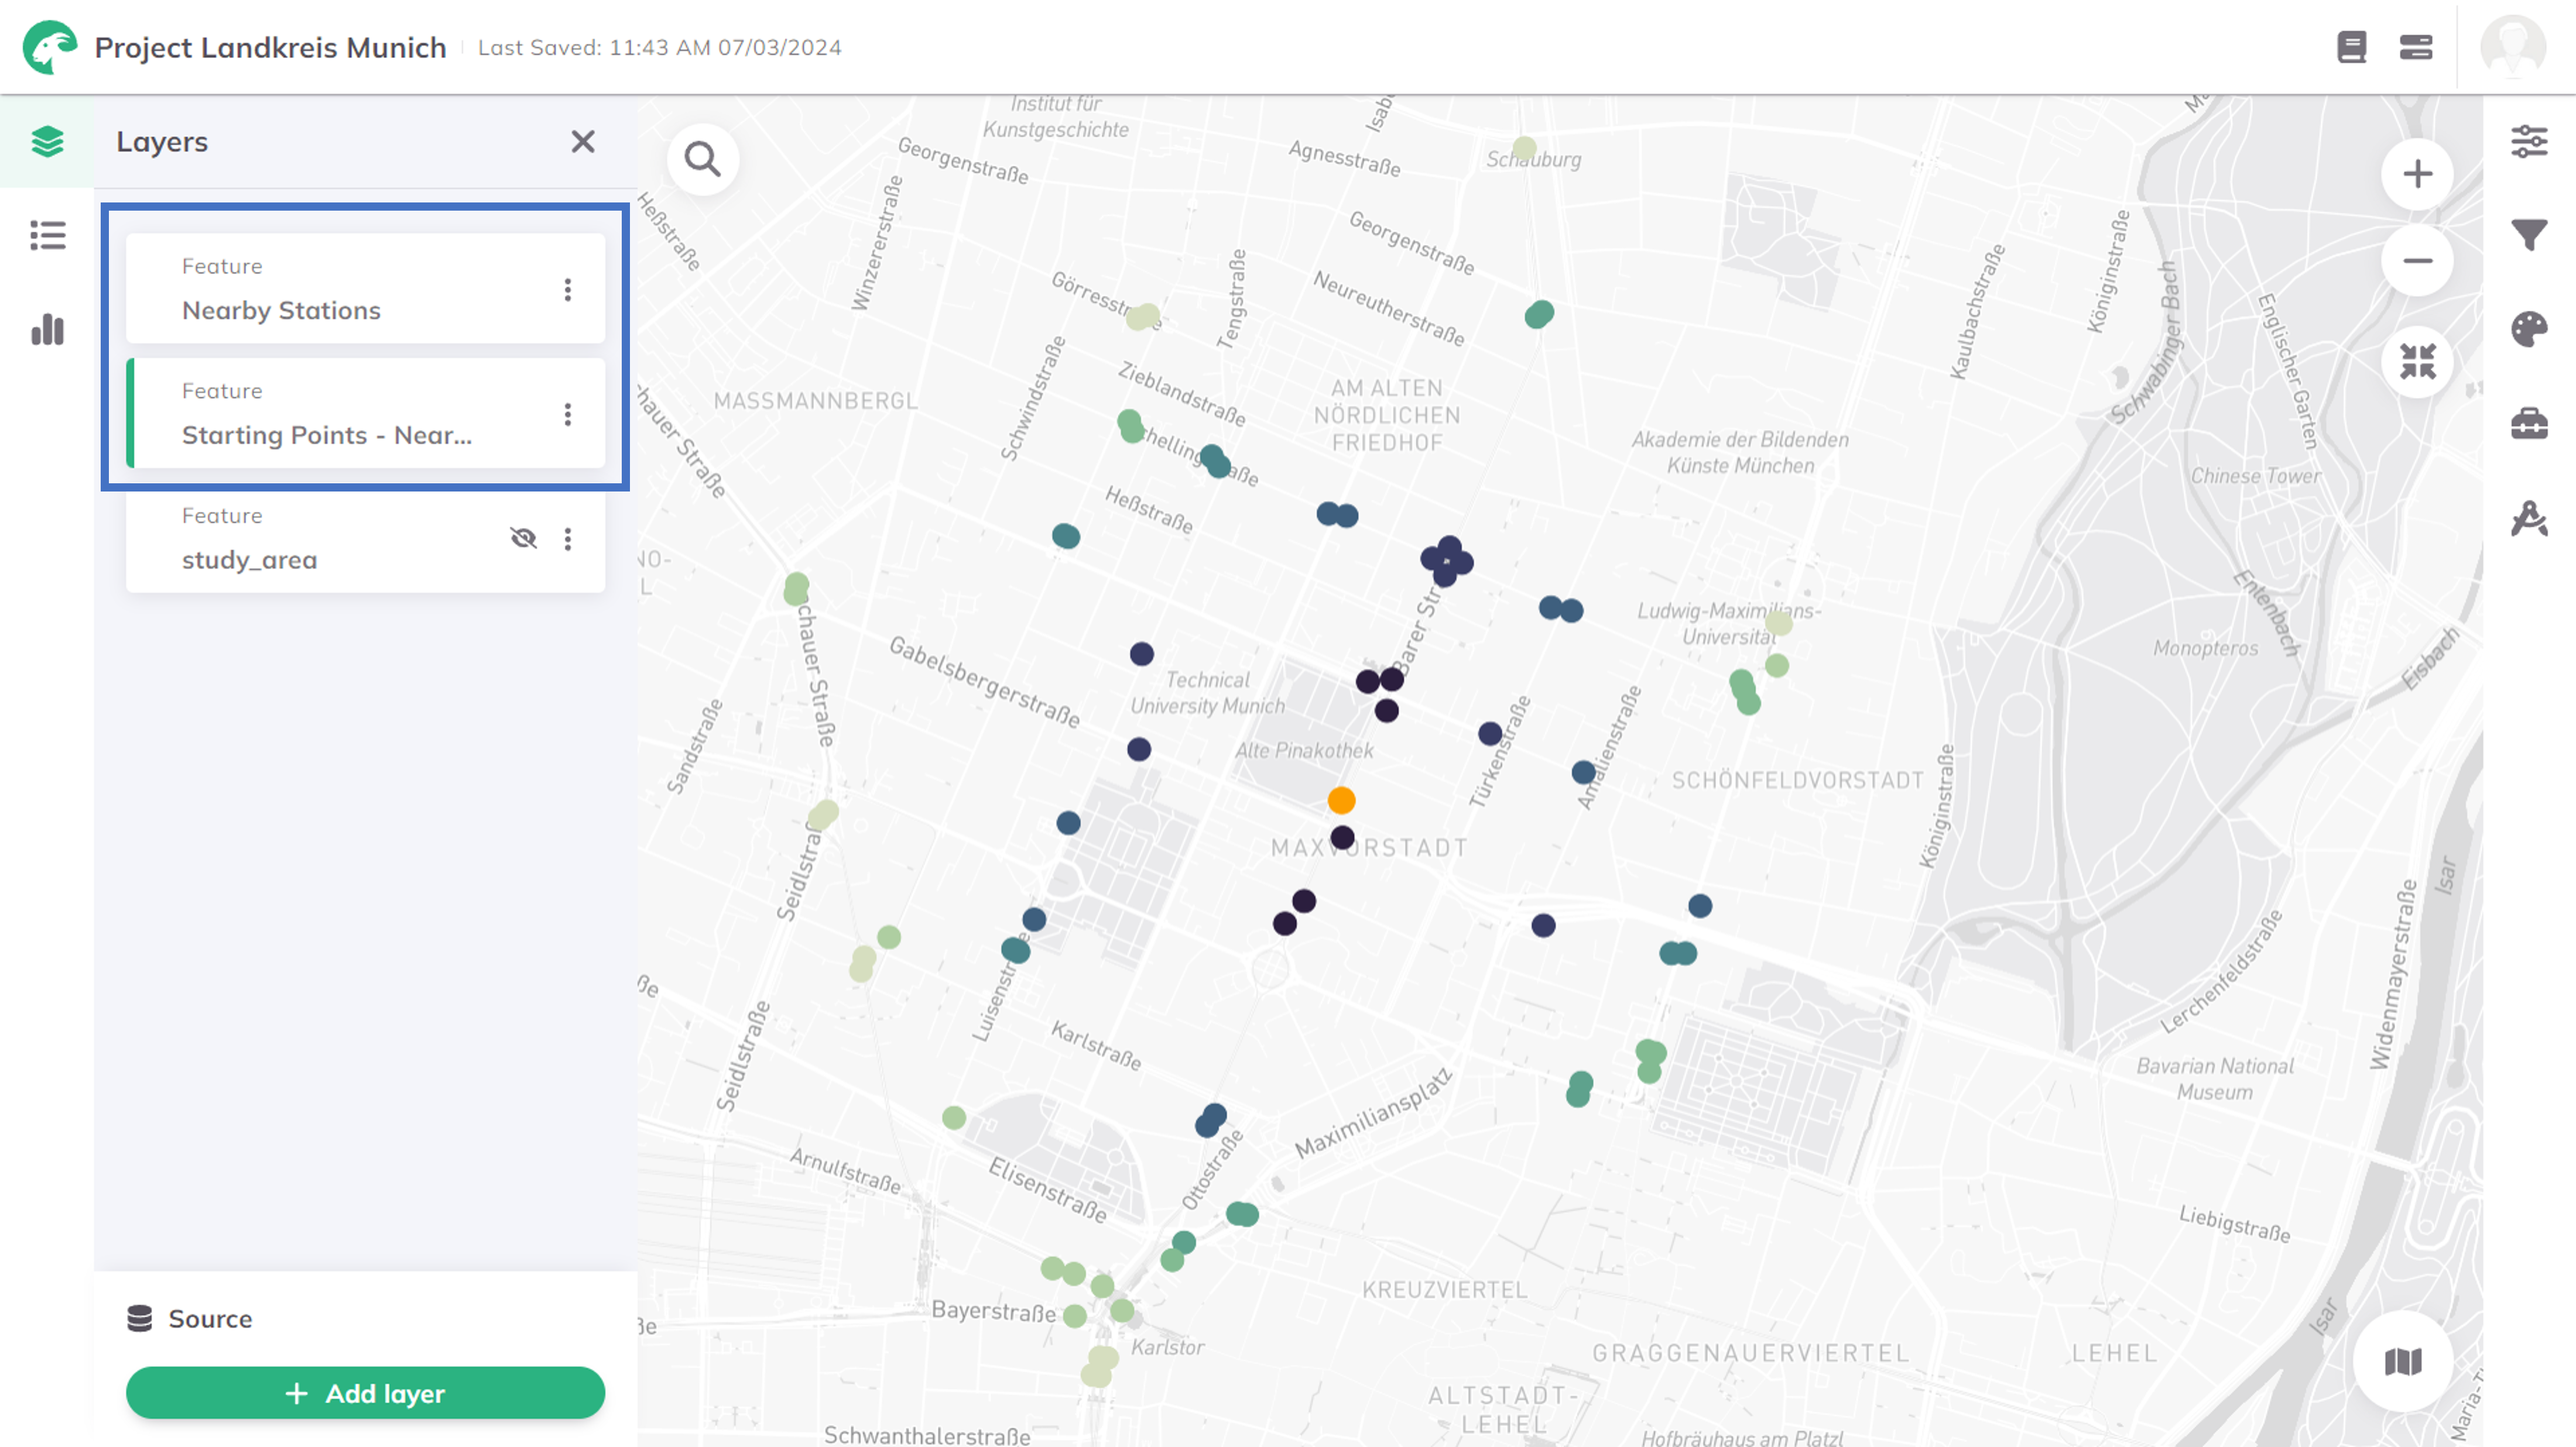
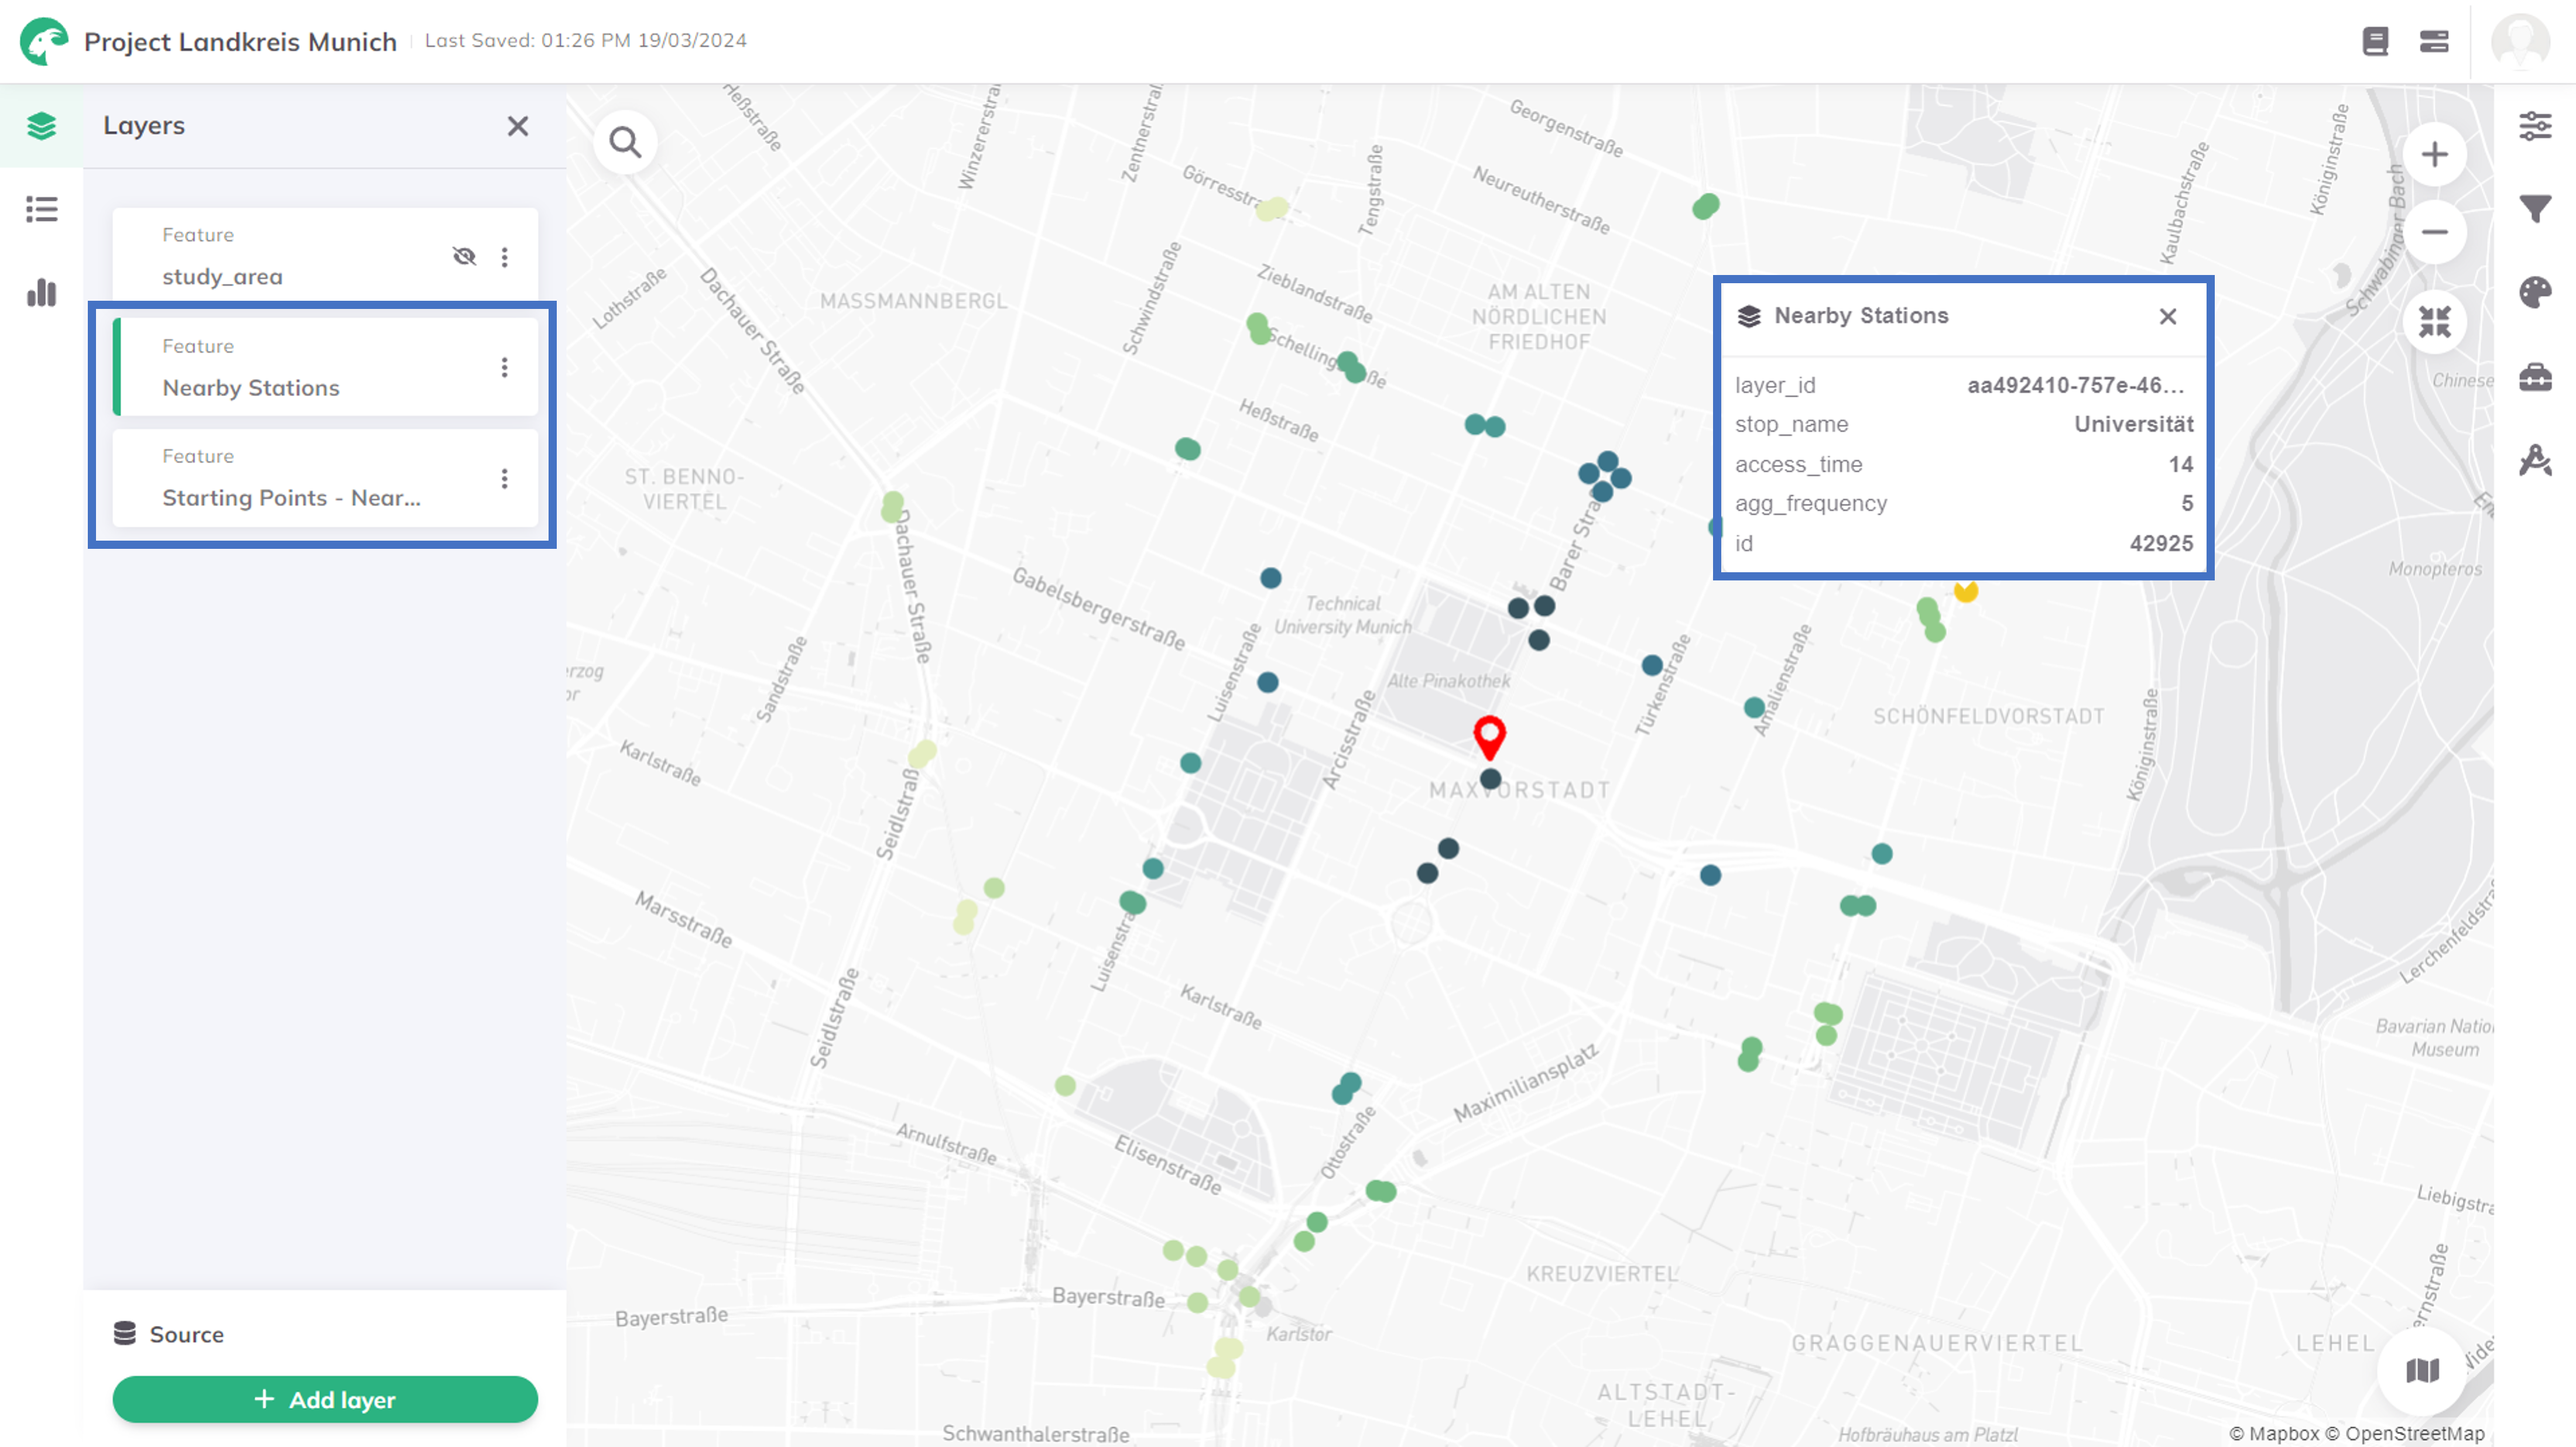
nearby stations update

diff --git a/docs/toolbox/accessibility_indicators/nearby_stations.md b/docs/toolbox/accessibility_indicators/nearby_stations.md
@@ -63,7 +63,7 @@ In case you need to perform analysis beyond this geofence, fell free to contact 
 
 <div class="step">
   <div class="step-number">5</div>
-  <div class="content">Pick which <code>Public transport modes</code> shall be considered for the nearby stations.</div>
+  <div class="content">Set <code>Station Configuration</code> to pick which <code>Public transport modes</code> shall be considered for the nearby stations.</div>
 </div>
 
 <div class="step">
@@ -76,7 +76,7 @@ In case you need to perform analysis beyond this geofence, fell free to contact 
 
 <div class="step">
   <div class="step-number">7</div>
-  <div class="content">Select under the <code>Starting point method</code> how you like to define the starting point(s) for the trips. You can either <b>Select on map</b> or <b>Select from layer</b>.</div>
+  <div class="content">From the <code>Starting Points</code> menu, select <code>Starting point method</code> to define how you like to define the starting point(s) for the trip(s). You can either <b>Select on map</b> or <b>Select from layer</b>.</div>
 </div>
 
 <Tabs>
@@ -117,11 +117,16 @@ Depending on the number of the selected starting points, the calculation might t
 
 <div class="step">
   <div class="step-number">10</div>
-  <div class="content">As soon as the calculation process is finished, the resulting layers will be added to the map. The results consist of one layer called <b>"Nearby Stations"</b>, showing the Nearby PT Stations, and one layer called <b>"Starting Points - Nearby Stations"</b> which provides all starting points that were used for the calculation of this indicator. </div>
+  <div class="content">As soon as the calculation process is finished, the resulting layers will be added to the map. The results consist of one layer called <b>"Nearby Stations"</b>, showing the Nearby PT Stations, and one layer called <b>"Starting Points - Nearby Stations"</b> which provides all starting points that were used for the calculation of this indicator. 
+  <p></p>
+  When clicking on a point in the map, further details, such as stop name, access time and aggregation frequency (overall frequency in minutes), become visible.
+</div>
 </div>
 
 
 ![Result of Public Transport Nearby Stations](/img/toolbox/accessibility_indicators/nearby_stations/nearby_stations_result.png "Result of Public Transport Nearby Stations")
+
+
 
 :::tip Tip
 Want to style your results and create nice looking maps? See [Styling](../../map/layer_style/styling).
